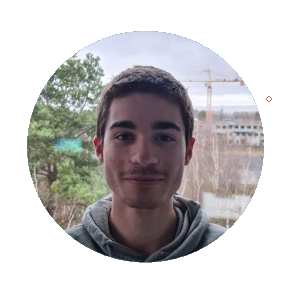
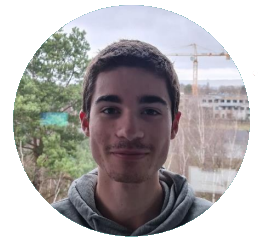
o

diff --git a/stylesheets/profile_user.scss b/stylesheets/profile_user.scss
@@ -57,12 +57,16 @@ ul{
     margin-top: 10px;
     padding-left: 0;
 }
-
-img#avatar {
+.infos img {
+    height: 140px;
+    width: 140px;
+    object-fit: contain;
+}
+.border {
     height: 140px;
     width: 140px;
     border-style: solid;
-    border-radius: 20px;
+    border-radius: 75px;
     margin: 5px ;
     border-color: black;
 }

diff --git a/php/profile.php b/php/profile.php
@@ -5,7 +5,7 @@ if (!isset($_SESSION)){
 }
 //Get email value stored in the session
 $email=$_SESSION['email']; 
-include "db.php";
+include_once "db.php";
 //Preparing the request to get the infos from the table with the corresponding email address
 $sql = $pdo->prepare("SELECT 
                             lastname,
@@ -15,7 +15,8 @@ $sql = $pdo->prepare("SELECT
                             timestampdiff(year,birthday,now())as age ,
                             promotion_name,
                             campus_name,
-                            promotion_type
+                            promotion_type,
+                            id_user
                             from user
                             INNER JOIN campus on user.id_campus = campus.id_campus
                             INNER JOIN promotion on user.id_promotion = promotion.id_promotion 
@@ -25,5 +26,6 @@ $email = $_SESSION['email'];
 $sql->bindParam(':email', $email);
 $sql->execute();
 $row = $sql->fetchAll();
+$id = $row[0][8];
 
 ?>

diff --git a/profile_user.php b/profile_user.php
@@ -30,8 +30,9 @@
 
     <!-- PROFILE BANNER -->
         <div class="infos">
-            <img id="avatar" src="/assets/pictures/default_avatar.png" alt="Profile Picture">
-
+            <div class="border">
+            <img id="avatar" src=<?php echo"/assets/user_data/avatar/$id.png"?> alt="Profile Picture">
+            </div>
             <ul id="listinfo">
                 <li class="medium"><?php print_r($row[0][0]); ?></li>
                 <li class="medium"><?php print_r($row[0][1]); ?></li>
